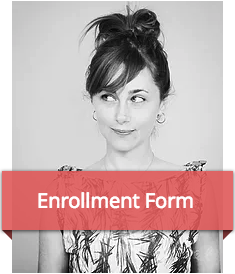
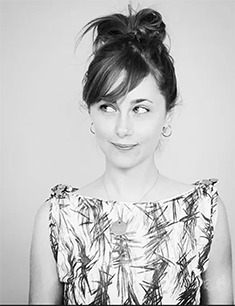
update css

diff --git a/homework5/css/style.css b/homework5/css/style.css
@@ -128,6 +128,34 @@ body {
   margin-bottom: 20px;
   background: #fff;
   /* common css 共用樣式 */ }
+  #content .ribbon {
+    width: 245px;
+    position: relative;
+    text-align: center; }
+    #content .ribbon .text {
+      opacity: 0.9;
+      position: absolute;
+      left: -6px;
+      top: 200px;
+      width: 256px;
+      padding: 20px 0;
+      font-size: 18px;
+      background: #de5454;
+      color: #fff; }
+      #content .ribbon .text:before {
+        font-size: 1px;
+        position: absolute;
+        left: 0px;
+        top: 57px;
+        content: '◥';
+        color: #471d1d; }
+      #content .ribbon .text:after {
+        font-size: 1px;
+        position: absolute;
+        right: 0px;
+        top: 57px;
+        color: #471d1d;
+        content: '◤'; }
   #content .about {
     grid-row: 1/2;
     display: -webkit-box;
@@ -309,7 +337,7 @@ body {
       -webkit-box-align: center;
       -ms-flex-align: center;
       align-items: center;
-      padding: 10px;
+      margin-bottom: 20px;
       font-size: 18px;
       color: #11a2ae; }
     #footer .contact .contact-word {
@@ -335,33 +363,38 @@ body {
     #footer .mail .mail-left {
       -webkit-box-flex: 1;
       -ms-flex: 1 1 50%;
-      flex: 1 1 50%; }
+      flex: 1 1 50%;
+      padding-left: 55px; }
       #footer .mail .mail-left input {
-        width: 70%;
+        width: 90%;
         height: 20%;
         -webkit-box-sizing: border-box;
         box-sizing: border-box;
         padding: 5px;
-        margin: 0 0 5px 50px;
+        margin-bottom: 5px;
         border: 0;
         border-radius: 8px; }
     #footer .mail .mail-right {
-      -webkit-box-flex: 1;
-      -ms-flex: 1 1 50%;
-      flex: 1 1 50%; }
+      -ms-flex-wrap: wrap;
+      flex-wrap: wrap;
+      display: -webkit-box;
+      display: -ms-flexbox;
+      display: flex;
+      -webkit-box-pack: end;
+      -ms-flex-pack: end;
+      justify-content: flex-end;
+      margin-right: 49px; }
       #footer .mail .mail-right textarea {
-        width: 70%;
+        width: 100%;
         height: 60%;
         padding: 5px;
-        margin: 0 50px 0 0;
         resize: none;
         border: 0;
         border-radius: 8px; }
       #footer .mail .mail-right button {
-        width: 20%;
+        width: 35%;
         height: 25%;
         border-radius: 8px;
-        margin-left: 122px;
         color: #fff;
         background: #11a2ae; }
   #footer .socialmedia {

diff --git a/homework5/scss/style.scss b/homework5/scss/style.scss
@@ -6,8 +6,8 @@ $textColor: #7b7b7b;
 $hoverColor: #11a2ae;
 $shadeColor: #a09e9e;
 $backGroundColor: #fff;
-$bodyBackGroundColor: #f5f5f5;;
-$subTitle: 18px;
+$bodyBackGroundColor: #f5f5f5;
+$ribbonTriangleColor: #471d1d;
 
 $xxxs: 13px;
 $xxs:  15px;
@@ -178,6 +178,40 @@ body {
 	min-height: 100vh;
   margin-bottom: 20px;
   background: $backGroundColor;
+
+  .ribbon {
+    width: 245px;
+    position: relative;
+    text-align: center;
+    .text {
+      opacity: 0.9;
+      position: absolute;
+      left: -6px;
+      top: 200px;
+      width: 256px;
+      padding: 20px 0;
+      font-size: 18px;
+      background: $primaryColor;
+      color: $backGroundColor;
+        &:before {
+          font-size: 1px;
+          position: absolute;
+          left: 0px;
+          top: 57px;
+          content: '◥';
+          color: $ribbonTriangleColor;
+        }
+        &:after {
+          font-size: 1px;
+          position: absolute;
+          right: 0px;
+          top: 57px;
+          color: $ribbonTriangleColor;
+          content: '◤';
+        }
+    }
+}
+
 
   .about {
     @include conentStyle;
@@ -360,7 +394,7 @@ body {
     .contact-title {
       display: flex;
       align-items: center;
-      padding: 10px;
+      margin-bottom: 20px;
       font-size: $xs;
       color: $secondaryColor;
     }
@@ -385,35 +419,36 @@ body {
     
     .mail-left{
       @include flexStyle;
-      
+      padding-left: 55px;
       input {
-        width: 70%;
+        width: 90%;
         height: 20%;
         box-sizing: border-box;
         padding: 5px;
-        margin: 0 0 5px 50px;
+        margin-bottom: 5px;
         border: 0;
         border-radius: 8px;
       }
     }
     
     .mail-right{
-      @include flexStyle;
-
+      flex-wrap: wrap;
+      display: flex;
+      justify-content: flex-end;
+      margin-right: 49px;
+  
       textarea {
-        width: 70%;
+        width: 100%;
         height: 60%;
         padding: 5px;
-        margin: 0 50px 0 0;
         resize: none;
         border: 0;
         border-radius: 8px;
       }    
       button {
-        width: 20%;
+        width: 35%;
         height: 25%;
         border-radius: 8px;
-        margin-left: 122px;
         color: $backGroundColor;
         background: $secondaryColor;
       }

diff --git a/homework5/index.html b/homework5/index.html
@@ -93,7 +93,12 @@
                 </div>
             </div>
             <div class="grid-element form">
-                <img src="./images/woman.png">
+                <div class="ribbon">
+                    <img src="./images/woman.png">
+                    <div class="text">
+                            Enrollment Form
+                        </div>
+                </div>
             </div>
             <div class="grid-element lab">
                 <div class="lab-left">
@@ -104,7 +109,7 @@
                     <div class="slogan">
                         Enlarge your vocabulary and range of expressions
                     </div>
-                    </div>
+                  </div>
                 </div>
                 <div class="lab-right">
                     <p class="title">Conversation Lab</p>     
